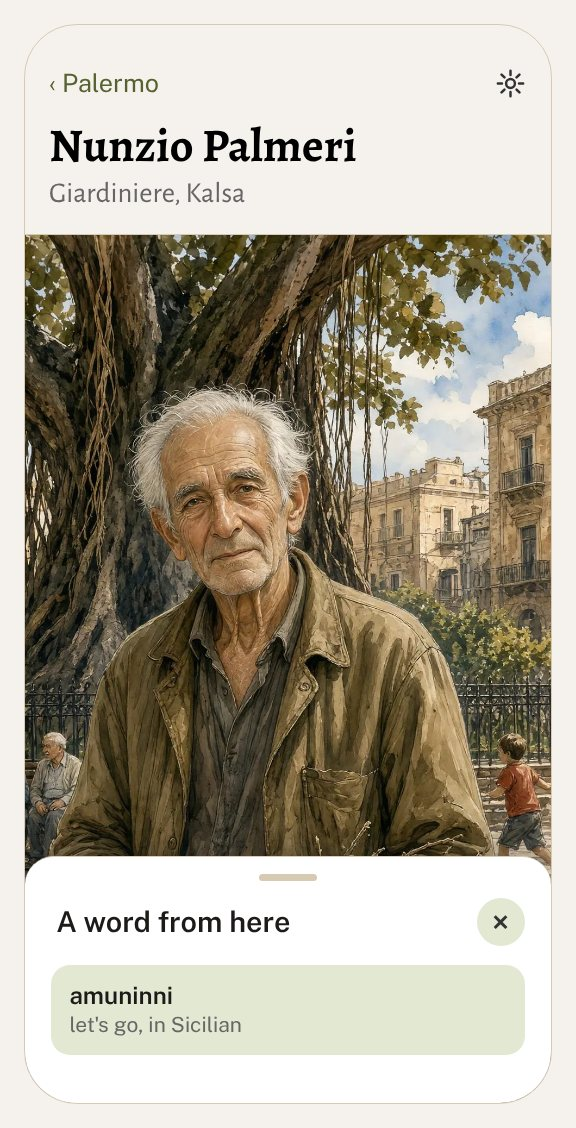
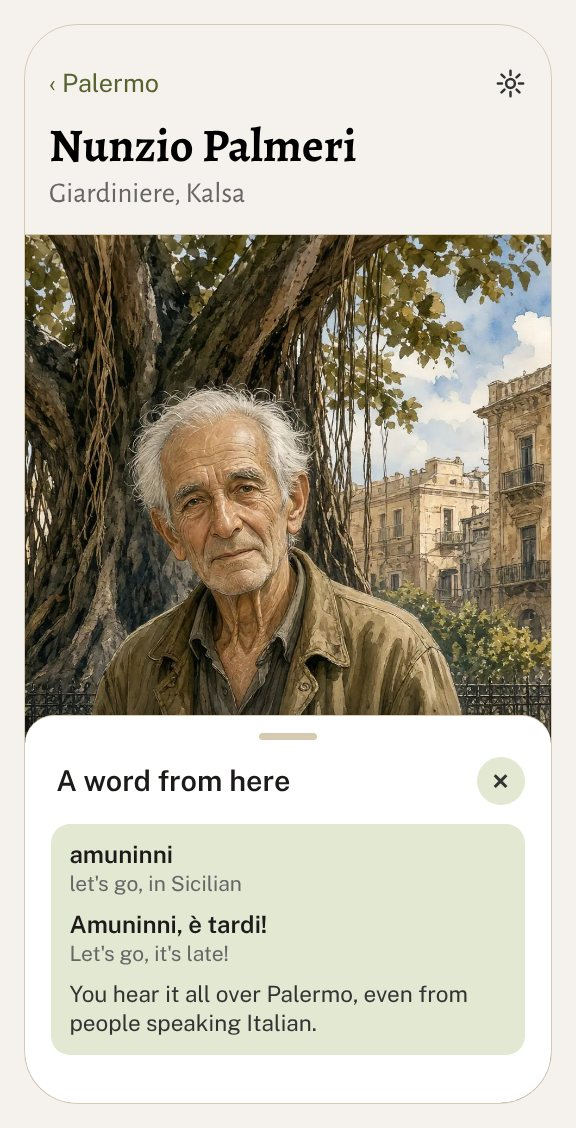
Learn sheet: the five sparse cards filled out
Josh, of the ten example cards: "the bottom row of 10 is sparse".
Culture, A saying, A word from here, This or that and A small word each
held one or two lines. Each now carries about three, like the top row:
Culture has a second sentence; A saying shows the saying used; A word
from here has a sentence and where you hear it; This or that is the
question and its two answers, built alike; A small word has a line
saying what the word does. Pictures 06 to 10 and all-ten redrawn; the
design document's examples, what each type holds and rule 8 updated.

Claude-Session: https://claude.ai/code/session_01QEzdjyfPUknbzpbZGP191b

Changed region(s): [[0.0312, 0.6206, 0.9688, 0.9309]]

diff --git a/docs/learn-sheet-2-design.md b/docs/learn-sheet-2-design.md
@@ -42,7 +42,7 @@ One sheet, one card (Josh: "the card is the sheet. 1:1"). There is never a secon
 | Headline | At the top of the sheet, level with the close button. It names the card: "When you introduce yourself", "Vocabulary: things". |
 | Close button | Small and round, top right. The only control. No Done at the bottom. |
 | Body | One sage green block (#e2e8d2) under the headline, holding the card's lines. |
-| Lines | The language line in ink, semibold; the English under it, smaller and muted. Fact cards hold one short paragraph instead. |
+| Lines | The language line in ink, semibold; the English under it, smaller and muted. Fact cards hold one short paragraph instead. Some cards add one plain line in English: a saying's meaning, what a small word does. |
 
 No picture inside the sheet: the person is on the screen behind it. The sheet may cover the face when a card is tall; the name band still shows (Josh: "you haven't lost context").
 
@@ -55,7 +55,7 @@ No picture inside the sheet: the person is on the screen behind it. The sheet ma
 5. **The English goes under each line**, not beside it.
 6. **Lines run in the order they're said:** the question, then the answer.
 7. **Plain.** No audio, no replayed moments, nothing about the next visit, no city or day of the week, no red.
-8. **Bite-sized.** Two or three lines for phrases, five for things, three for actions, one fact. Earlier, fuller cards were "too dense" and one-line pointers "too compact".
+8. **Bite-sized, but not sparse.** About three lines to a card: two or three phrases, five things, three actions, a fact of two or three sentences. Josh, of the first drawings of Culture, A saying, A word from here, This or that and A small word, which held one or two lines: "the bottom row of 10 is sparse"; they were filled out to match. Earlier, fuller cards were "too dense" and one-line pointers "too compact".
 9. **Cards are often picked by what the conversation involved, but not always.** A card can stand by itself.
 10. **The person screen behind the sheet is not changed.**
 11. **Cards don't make corrections** (Josh, 2026-11-23: "i don't know if it made it into the design doc - but cards don't make corrections"). A card shows the right way to say things; it never shows what the learner got wrong or a wrong form beside the right one.
@@ -111,8 +111,8 @@ One fact about where you were. It doesn't have to come from the conversation. Th
 
 One culture fact: how people live there. (About this place is about where you stood; Culture is about the people. They are two types.)
 
-- **Holds:** one or two sentences.
-- **Example:** At home many families speak Tsotsil or Tseltal, and Spanish in town.
+- **Holds:** two or three sentences.
+- **Example:** At home many families here speak Tsotsil or Tseltal, and Spanish in town. Both are Maya languages, heard across the highlands of Chiapas.
 
 ![Culture](../design/learn-sheet-2/cards/06-culture.jpg)
 
@@ -120,8 +120,8 @@ One culture fact: how people live there. (About this place is about where you st
 
 One idiom, its literal words, and what it means.
 
-- **Holds:** the saying; its word-for-word English under it; one plain line with the meaning. The only type with a third kind of line.
-- **Example:** *A falta de pan, tortillas.* No bread, then tortillas. You make do with what you have.
+- **Holds:** the saying, its word-for-word English under it; one plain line with the meaning; then the saying used in a sentence, with its English.
+- **Example:** *A falta de pan, tortillas.* No bread, then tortillas. You make do with what you have. / *No hay atole. A falta de pan, tortillas: un café.* There's no atole. No bread, then tortillas: a coffee.
 
 ![A saying](../design/learn-sheet-2/cards/07-a-saying.jpg)
 
@@ -129,8 +129,8 @@ One idiom, its literal words, and what it means.
 
 One local word.
 
-- **Holds:** the word and what it means, with the language it comes from when that isn't the one being learned.
-- **Example:** *amuninni* let's go, in Sicilian. (San Cristóbal: *kolaval*, thank you, in Tsotsil.)
+- **Holds:** the word and what it means, with the language it comes from when that isn't the one being learned; a sentence that uses it; one plain line on where you hear it.
+- **Example:** *amuninni* let's go, in Sicilian / *Amuninni, è tardi!* Let's go, it's late! / You hear it all over Palermo, even from people speaking Italian. (San Cristóbal: *kolaval*, thank you, in Tsotsil.)
 
 ![A word from here](../design/learn-sheet-2/cards/08-a-word-from-here.jpg)
 
@@ -138,8 +138,8 @@ One local word.
 
 A choice of two that isn't formal and informal.
 
-- **Holds:** the two, each in a short sentence, the English under each.
-- **Example:** *¿Con leche?* With milk? / *Un café sin azúcar.* A coffee without sugar. (Italy: *Buongiorno!* until the afternoon / *Buonasera!* from about four.)
+- **Holds:** the question that offers the choice, then each answer, built alike so the two read as a pair.
+- **Example:** *¿Con leche o sin leche?* With milk or without? / *Con leche, por favor.* With milk, please. / *Sin azúcar, por favor.* Without sugar, please. (Italy: *Buongiorno!* until the afternoon / *Buonasera!* from about four.)
 - **Supply:** about 19 lessons teach a choice like this.
 
 ![This or that](../design/learn-sheet-2/cards/09-this-or-that.jpg)
@@ -148,8 +148,8 @@ A choice of two that isn't formal and informal.
 
 One little word that does a lot of work. The headline names it: "A small word: allora".
 
-- **Holds:** two sentences that use it, the English under each.
-- **Example:** *Allora, due cappuccini e due cornetti?* So, two cappuccinos and two croissants? / *Ah, ho capito! Un caffè, allora.* Oh, got it! An espresso, then.
+- **Holds:** two sentences that use it, the English under each; one plain line saying what the word does.
+- **Example:** *Allora, due cappuccini e due cornetti?* So, two cappuccinos and two croissants? / *Ah, ho capito! Un caffè, allora.* Oh, got it! An espresso, then. / It opens a thought or wraps one up: so, then, well.
 - **Supply:** about 12 lessons are about one.
 
 ![A small word](../design/learn-sheet-2/cards/10-a-small-word.jpg)
